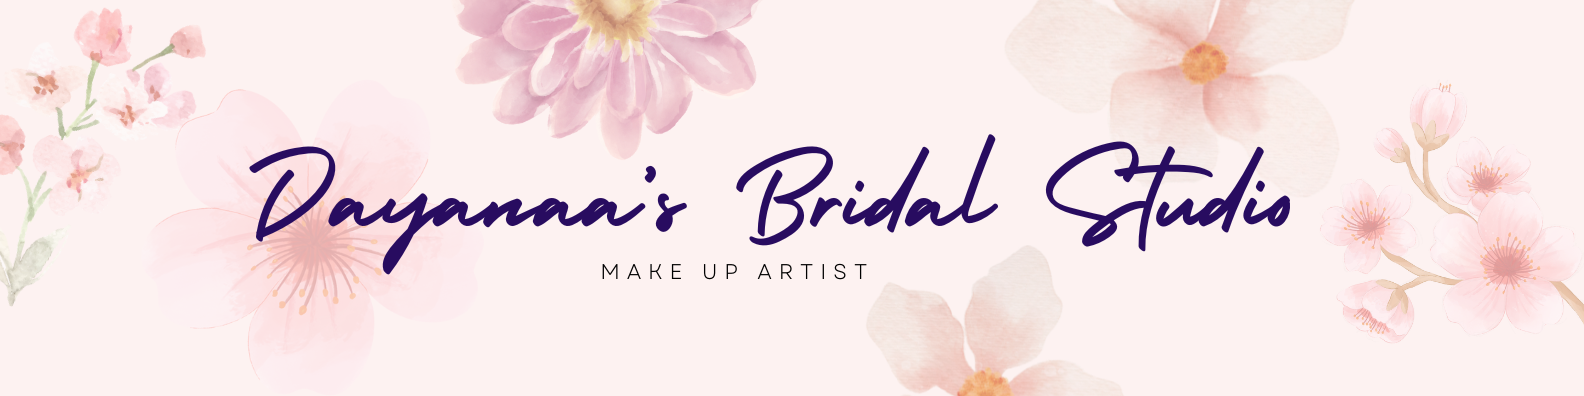
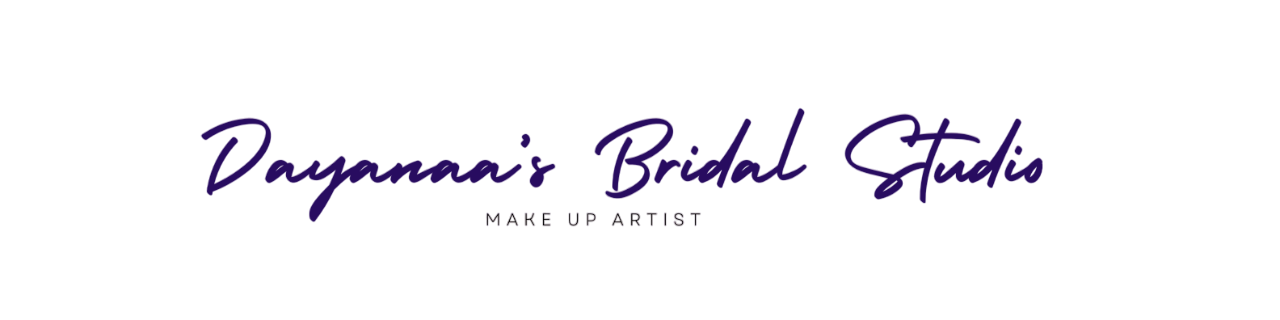
updated ui

diff --git a/style.css b/style.css
@@ -2,32 +2,36 @@
 body {
   font-family: "Poppins", sans-serif;
   margin: 0;
-  background: #fffafc;
+  background: url("image.png") fixed;
+  background-size: cover;
   color: #444;
   line-height: 1.6;
+  min-height: 100vh;
 }
 
 /* Navbar */
 .navbar {
   display: flex;
-  justify-content: space-between;
+  justify-content: flex-end;
   align-items: center;
   background: linear-gradient(120deg, #f9c5d1, #ffe6f0);
   padding: 1rem 2rem;
-  position: sticky;
+  position: fixed;
   top: 0;
+  left: 0;
+  right: 0;
   z-index: 1000;
 }
 .navbar h1 {
   font-family: "Playfair Display", serif;
   color: #d6336c;
-  margin: 0;
+  margin-right: auto;
   font-size: 1.5rem;
   text-shadow: 2px 2px 4px rgba(255, 255, 255, 0.5);
   letter-spacing: 1px;
 }
 .navbar nav a {
-  margin: 0 10px;
+  margin: 0 0 0 2rem;
   text-decoration: none;
   color: #d6336c;
   font-weight: bold;
@@ -40,8 +44,8 @@ body {
 .hero {
   text-align: center;
   padding: 0;
-  background: #fffafc;
   color: #d6336c;
+  margin-top: 76px; /* Height of navbar */
 }
 .hero-image {
   width: 100%;
@@ -84,6 +88,11 @@ body {
 .section {
   padding: 3rem 2rem;
   text-align: center;
+  background: rgba(255, 255, 255, 0.9);
+  margin: 2rem auto;
+  max-width: 1200px;
+  border-radius: 20px;
+  box-shadow: 0 4px 6px rgba(0, 0, 0, 0.1);
 }
 .section h2 {
   font-family: "Playfair Display", serif;

diff --git a/index.html b/index.html
@@ -13,7 +13,6 @@
   <body>
     <!-- NAVBAR -->
     <header class="navbar">
-      <h1>🌸 Dayanaa's Bridal Studio</h1>
       <nav>
         <a href="#about">About</a>
         <a href="#services">Services</a>
